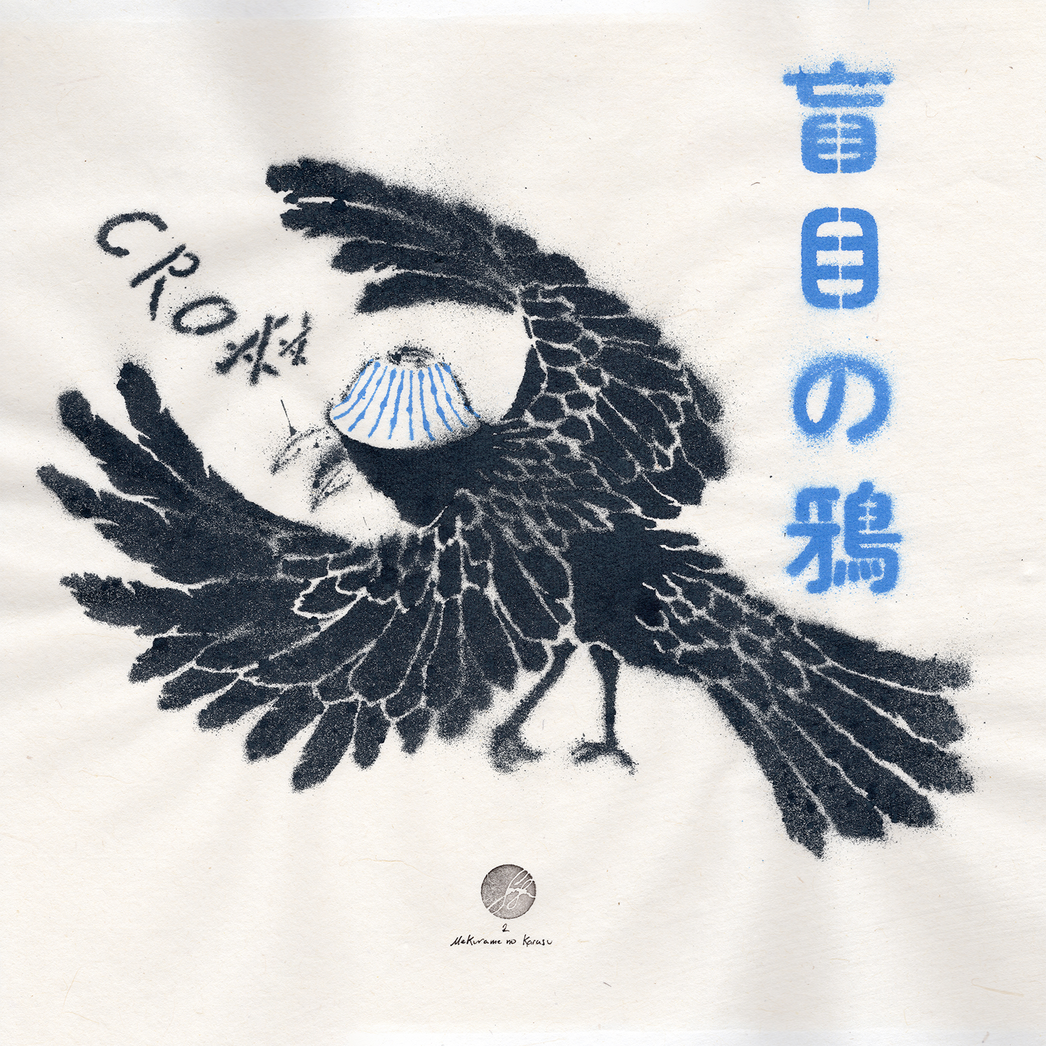
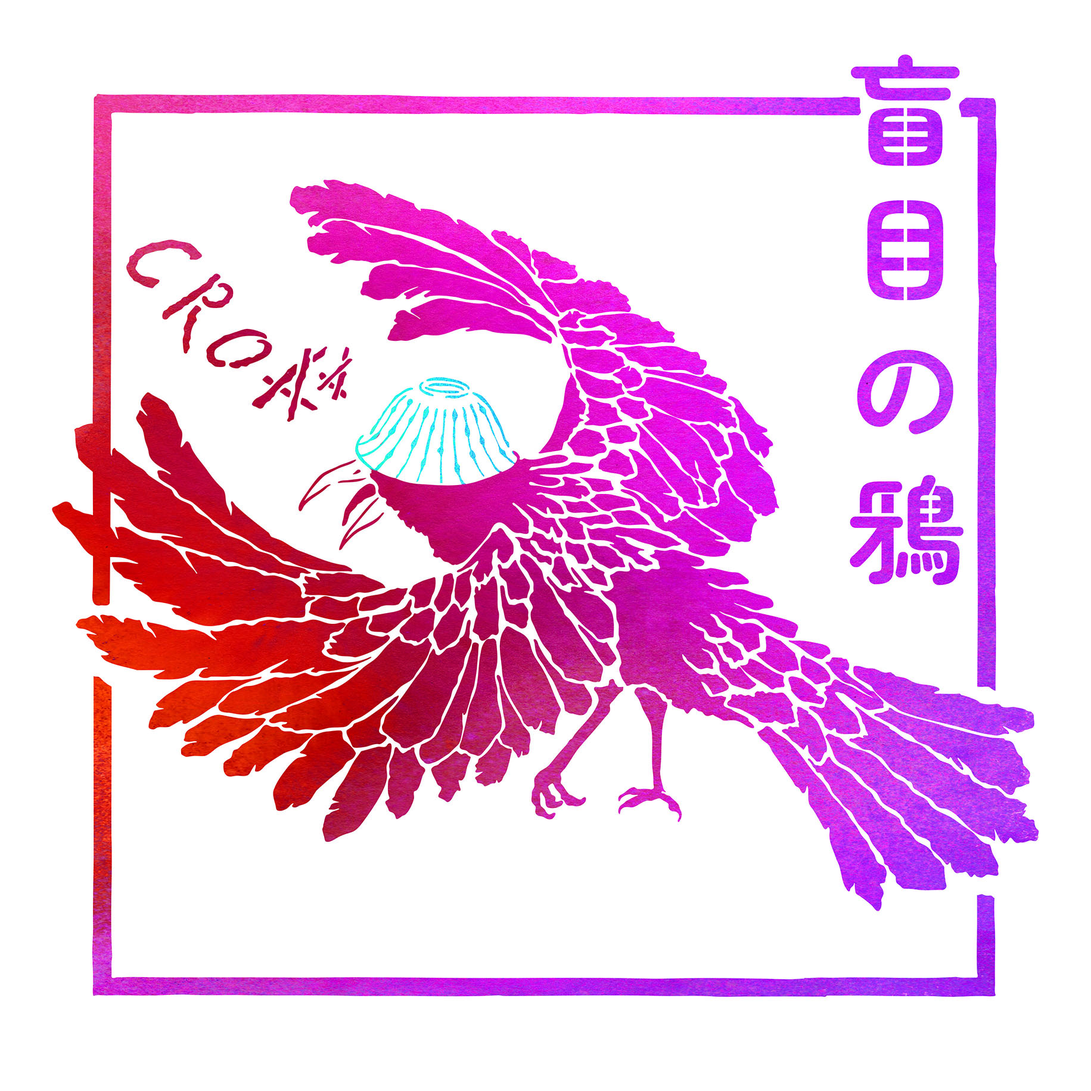
change on stencil pages

diff --git a/pages/stencil.html b/pages/stencil.html
@@ -6,7 +6,7 @@ layout: pages
 
     <div class="grid__item lg-w-1/3 w-1/1 container__media mrgt">
         <div class="frame frame--white">
-                <img src="{{ '/files/portfolio/illustrations/stencil/mekurame-no-karasu-3.jpg' | absolute_url }}" alt="image" />
+                <img src="{{ '/files/portfolio/illustrations/stencil/ouzlinn.jpg' | absolute_url }}" alt="image" />
         </div>
     </div>
 
@@ -46,3 +46,19 @@ layout: pages
         </div>
 
     </div>
+
+    <div class="grid grid--top grid--center">
+
+    <div class="grid__item lg-w-1/3 w-1/1 container__media mrgt">
+        <div class="frame frame--white">
+                <img src="{{ '/files/portfolio/illustrations/stencil/aux5t.jpg' | absolute_url }}" alt="image" />
+        </div>
+    </div>
+
+        <div class="grid__item lg-w-1/3 w-1/1 container__media mrgt">
+        <div class="frame frame--white">
+                <img src="{{ '/files/portfolio/illustrations/stencil/crabi.jpg' | absolute_url }}" alt="image" />
+        </div>
+    </div>
+
+</div>
